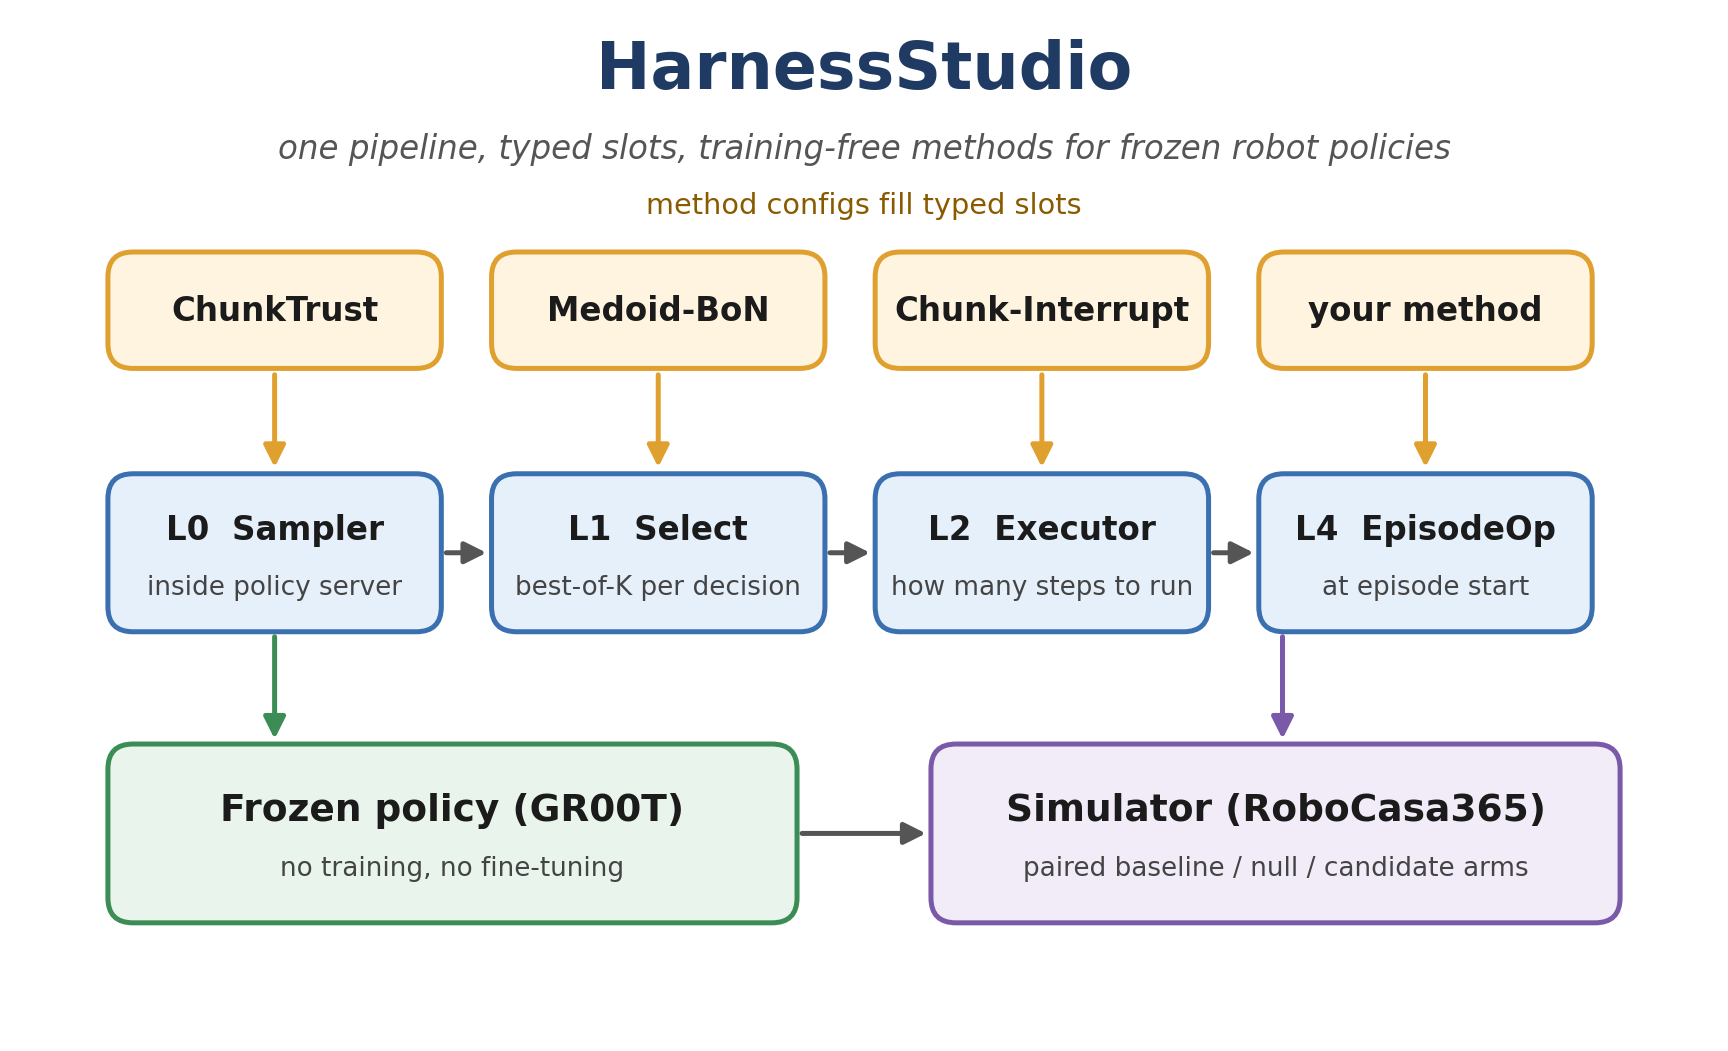
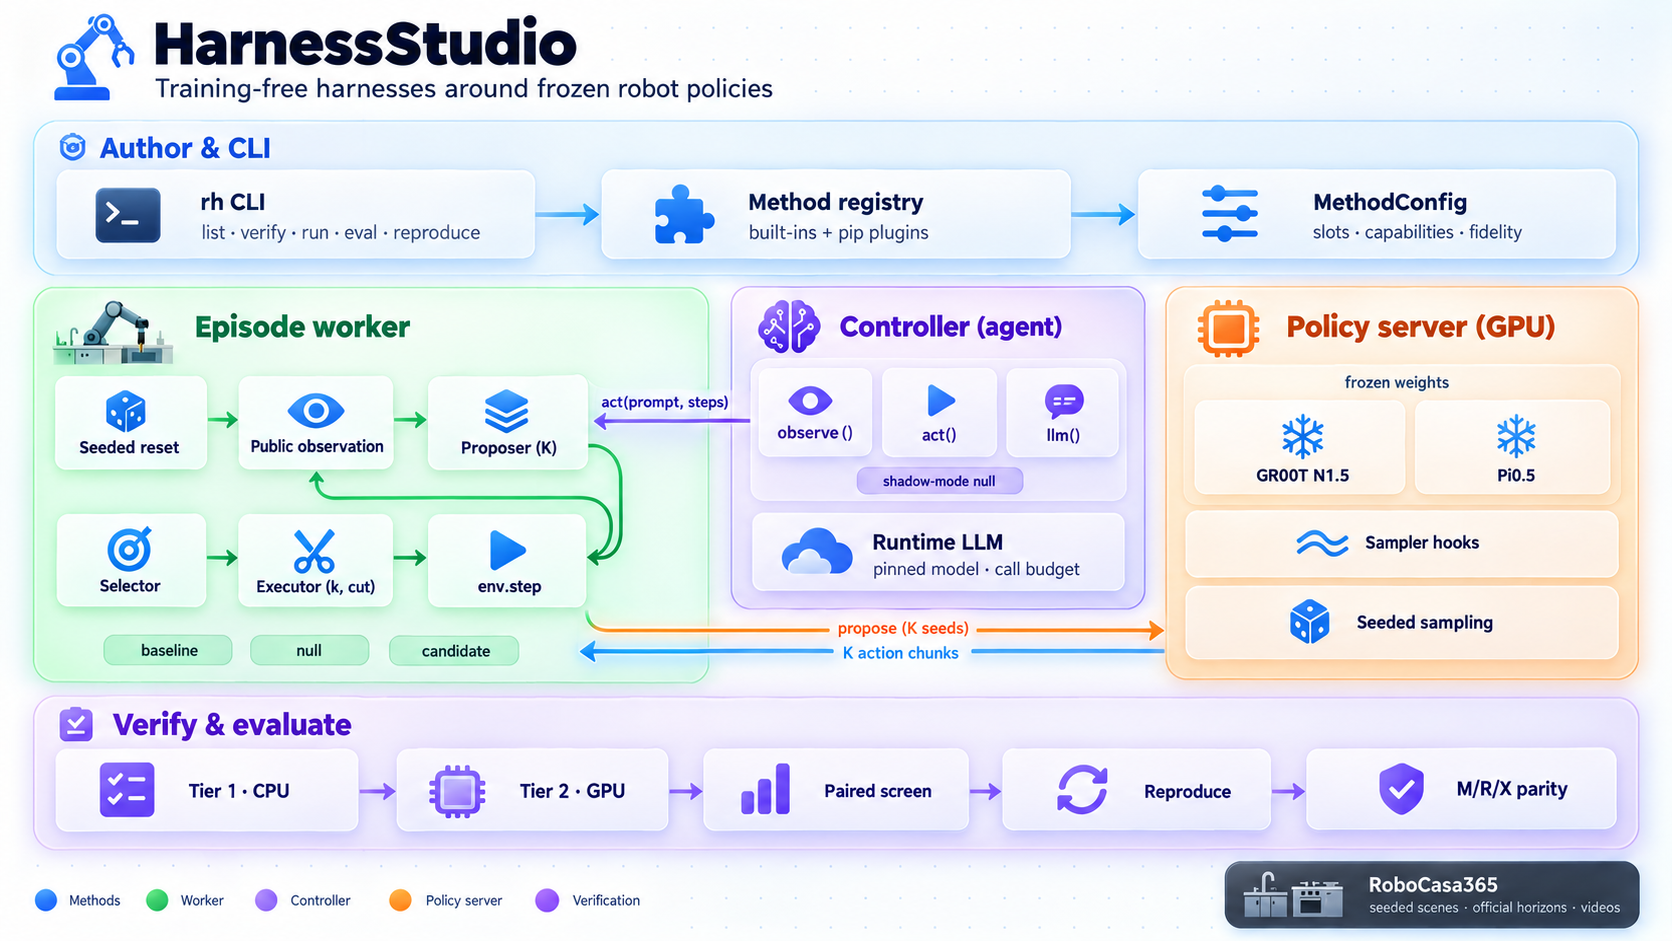
HarnessStudio: link GitHub repo, use repo architecture figure

diff --git a/_includes/publications.md b/_includes/publications.md
@@ -16,7 +16,7 @@
     {% endif %}
   </div>
   <div class="col-sm-9" style="position: relative;padding-right: 15px;padding-left: 20px;">
-      <div class="title"><a href="{{ link.pdf | default: link.page }}">{{ link.title }}</a></div>
+      <div class="title"><a href="{{ link.pdf | default: link.page | default: link.code }}">{{ link.title }}</a></div>
       <div class="author">{{ link.authors }}</div>
       <div class="periodical"><em>{{ link.conference }}</em>
       </div>
